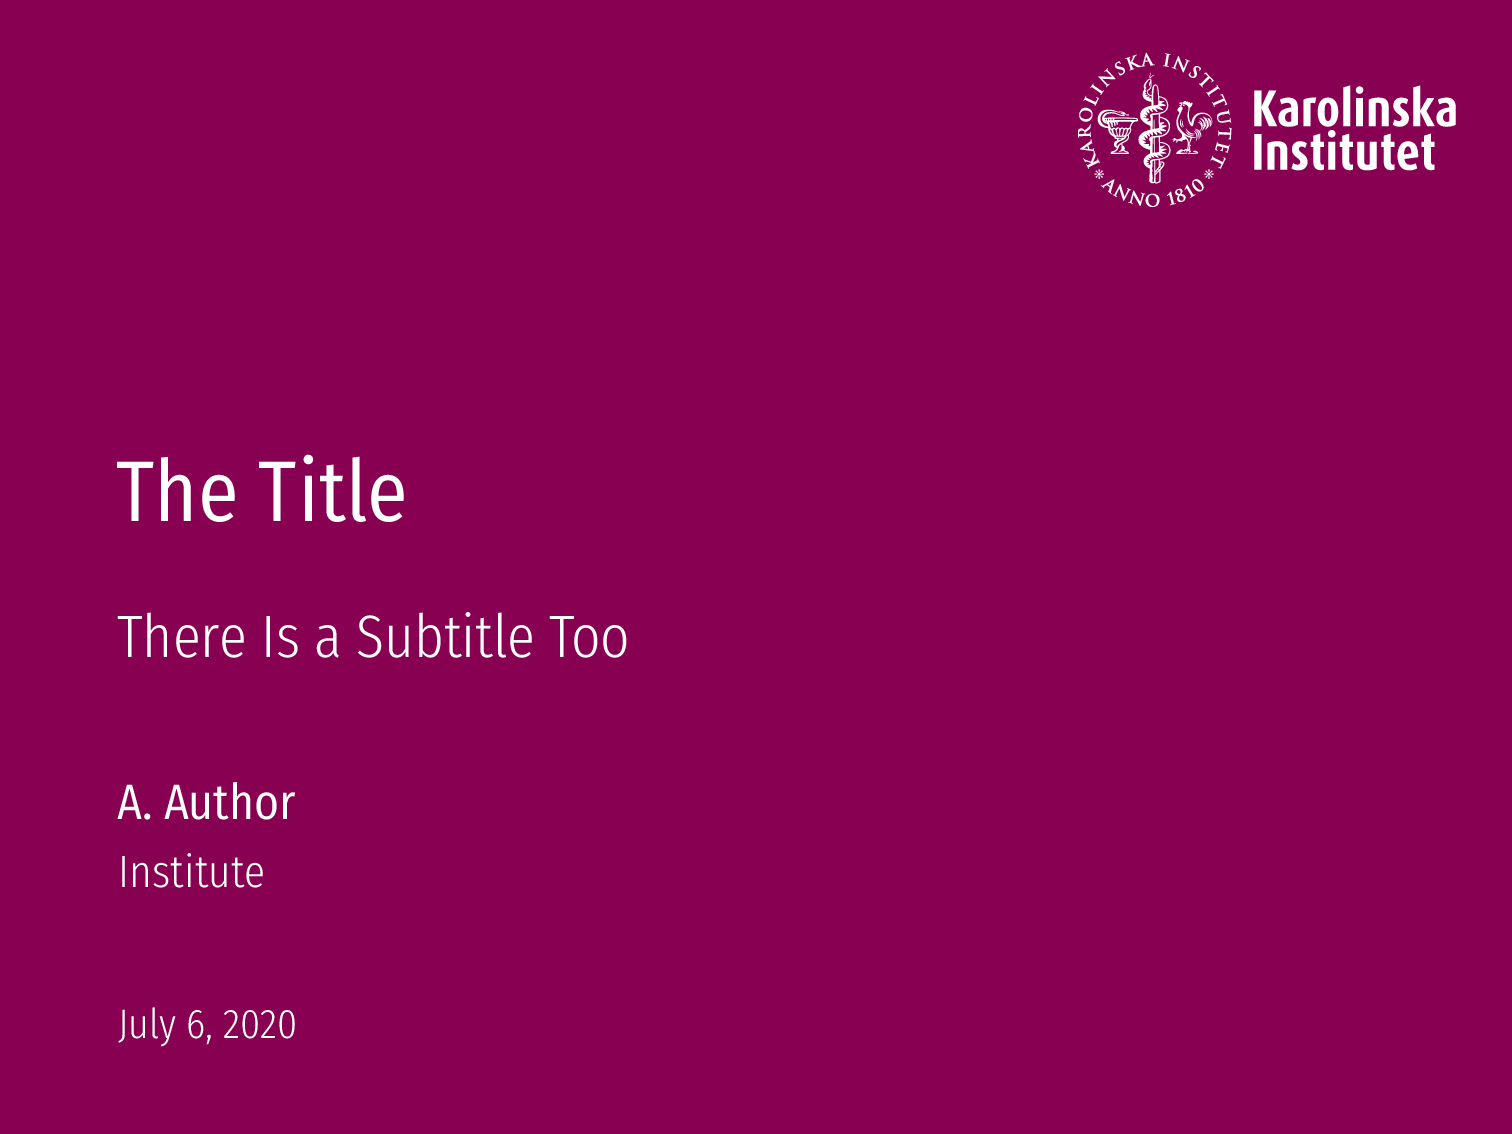
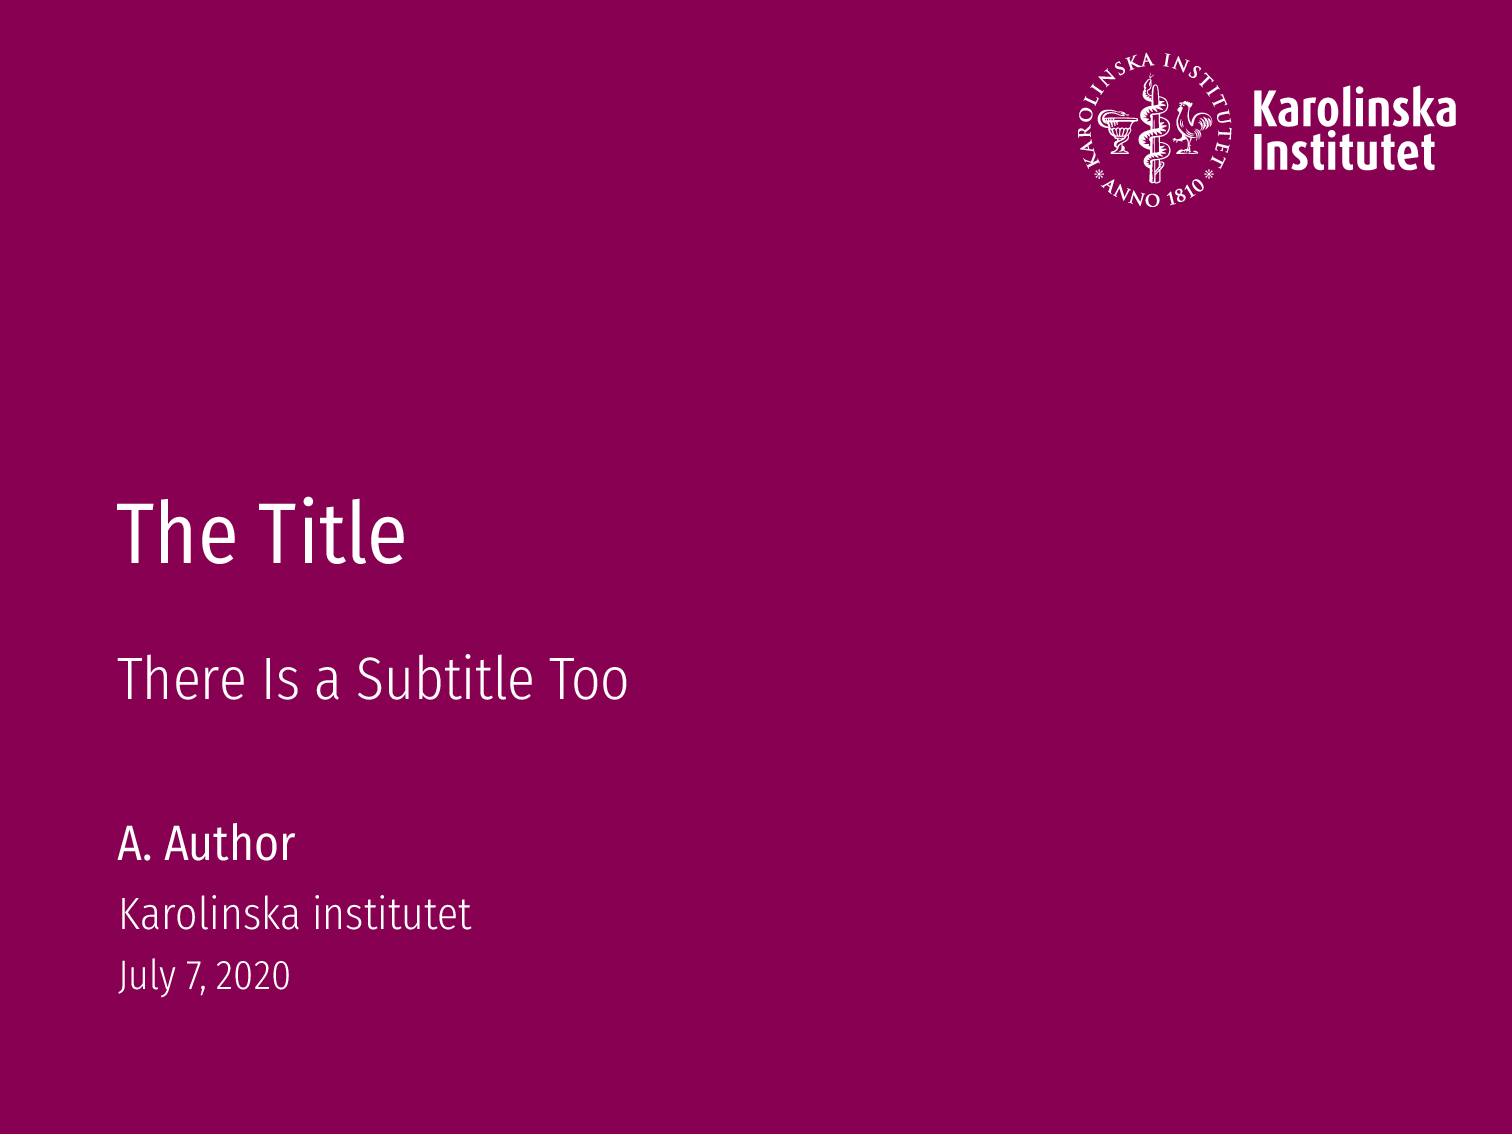
More style updates to mimick xaringan theme

Changed region(s): [[0.0622, 0.679, 0.3108, 0.9259], [0.0622, 0.5247, 0.4352, 0.6173], [0.0622, 0.4012, 0.2798, 0.4938]]

diff --git a/default.tex b/default.tex
@@ -6,11 +6,11 @@
   % fullfootline,
   % Sets a picture as the title background. If this option is not given, the primary color is used to create a solid background.
   % background=./graphics/forest.jpg,
-  % The primary color to use for the theme. Defaults to Pantone 200 C
-  % primaryColor = BA0C2F,
-  % This is intended to be a lighter version of the primary color. Defaults to Pantone 431 C, 50%
-  % primaryLightColor = DAE6EF,
-	% secondaryColor = 5B6770,
+  % The primary color to use for the theme.
+  % primaryColor = 870052,
+  % This is intended to be a lighter version of the primary color.
+  % primaryLightColor = D40963,
+  % secondaryColor = 808080,
 ]{miniki}
 
 % 150% Line Spacing
@@ -20,7 +20,7 @@
 \subtitle{There Is a Subtitle Too}
 \date{\today}
 \author{A. Author}
-\institute{Institute}
+\institute{Karolinska institutet}
 \titlegraphic{\includegraphics[width = 10em]{./graphics/KI-Logo_neg.eps}}
 \begin{document}
 
